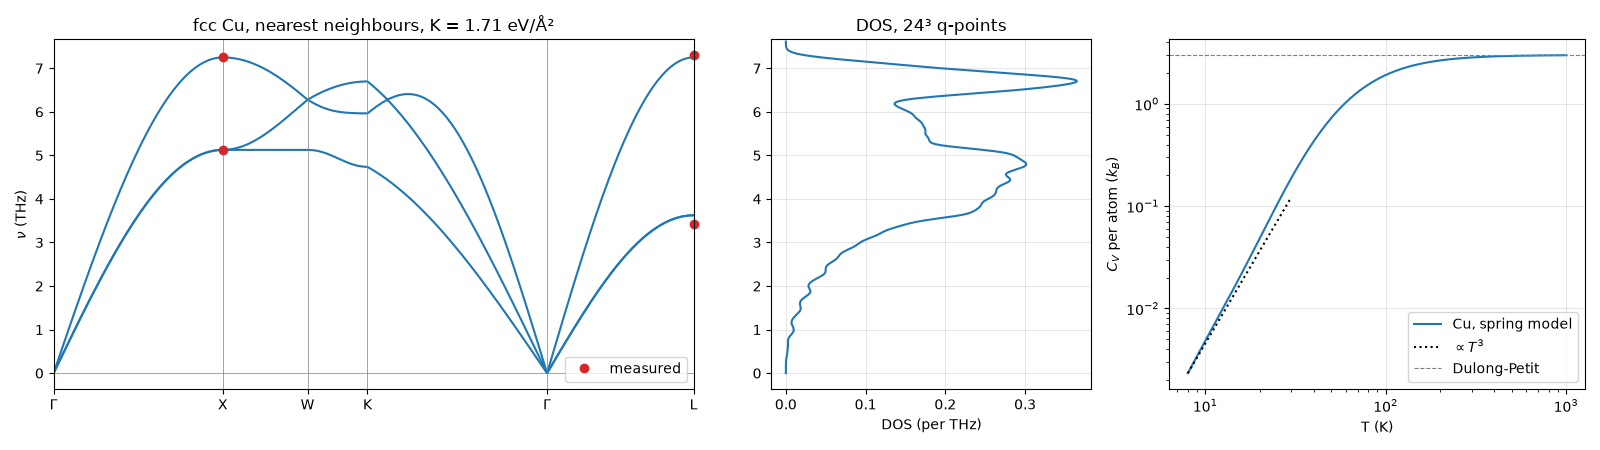
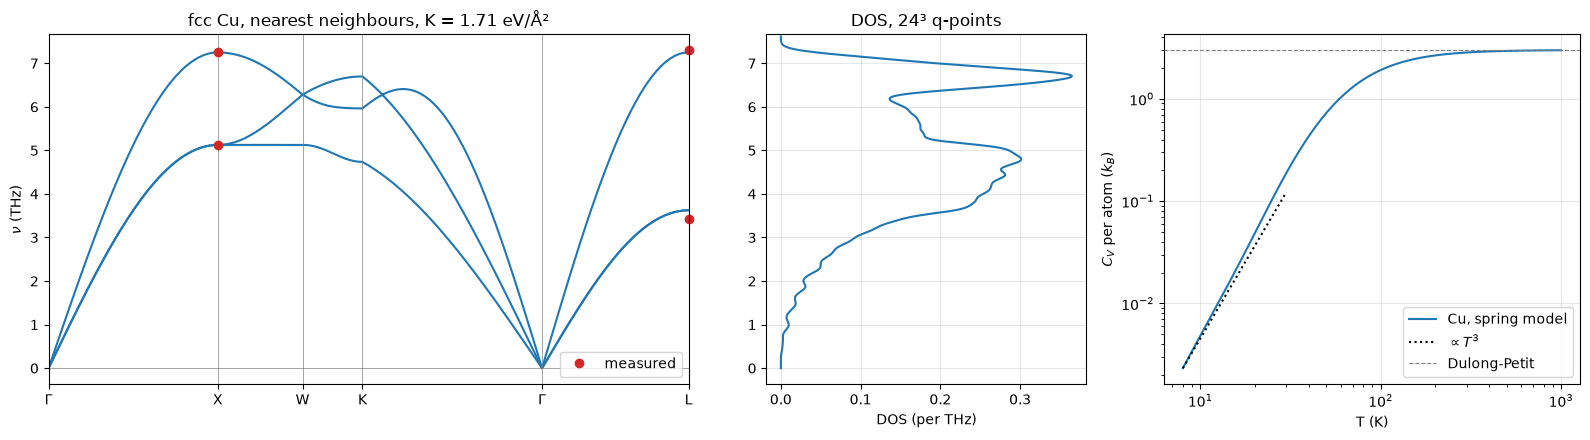
README images as sized HTML (equal heights per row), tightly cropped; test runs the code in README and guide

diff --git a/tests/test_docs.py b/tests/test_docs.py
@@ -1,0 +1,20 @@
+"""The Python code blocks in the README and the guide run (plots to the Agg backend)."""
+
+import re
+from pathlib import Path
+
+import matplotlib
+import matplotlib.pyplot as plt
+import pytest
+
+matplotlib.use("Agg")
+ROOT = Path(__file__).parent.parent
+DOCS = [ROOT / "README.md", *sorted((ROOT / "docs" / "guide").glob("*.md"))]
+
+
+@pytest.mark.parametrize("path", DOCS, ids=lambda path: path.name)
+def test_code_blocks_run(path, monkeypatch):
+    monkeypatch.setattr(plt, "show", lambda: None)
+    blocks = re.findall(r"```python\n(.*?)```", path.read_text(), re.S)
+    exec("\n".join(blocks), {})  # blocks of one page build on each other
+    plt.close("all")

diff --git a/docs/images/make_images.py b/docs/images/make_images.py
@@ -24,7 +24,7 @@ def main():
     plt.show = lambda: None
     for name, (example, figure) in IMAGES.items():
         runpy.run_path(str(ROOT / "examples" / example), run_name="__main__")
-        plt.figure(figure).savefig(Path(__file__).parent / name, dpi=100)
+        plt.figure(figure).savefig(Path(__file__).parent / name, dpi=100, bbox_inches="tight")
         plt.close("all")
 
 

diff --git a/README.md b/README.md
@@ -2,10 +2,12 @@
 
 latticephys computes and visualizes the vibrations of lattices (phonons) — molecules, chains, ribbons, layers and 3D crystals — with spring models checked against analytic results and experiment. The aim is a general library for the physics of lattices: phonons first, with more models, quasi-particles and dynamics to follow (see [`TODO.md`](TODO.md)).
 
-| | |
-|---|---|
-| ![NaCl crystal in 3D with its primitive cell](docs/images/nacl_crystal.png) | ![Graphene layer bands coloured by out-of-plane weight](docs/images/graphene_layer.png) |
-| ![Scattering intensity S(Q, ω) of graphene over three zones](docs/images/graphene_structure_factor.png) | ![Cu bands against neutron data, DOS and heat capacity](docs/images/copper.png) |
+<p align="center">
+  <img src="docs/images/nacl_crystal.png" width="40%" alt="NaCl crystal in 3D with its primitive cell">
+  <img src="docs/images/graphene_layer.png" width="57%" alt="Graphene layer bands coloured by out-of-plane weight">
+  <img src="docs/images/graphene_structure_factor.png" width="35%" alt="Scattering intensity S(Q, ω) of graphene over three zones">
+  <img src="docs/images/copper.png" width="62%" alt="Cu bands against neutron data, DOS and heat capacity">
+</p>
 
 ## Install
 

diff --git a/TODO.md b/TODO.md
@@ -7,7 +7,6 @@ Planned examples are in [`examples/IDEAS.md`](examples/IDEAS.md); the items belo
 ## Next
 
 - [ ] verify that rule 6 in CLAUDE.md is realistic physically (some things can't be computed analytically)
-- [ ] re-evaluate the README.md to properly reflect the library to make it users able to use the library efficiently. Emphasize is less on the examples than on the power of the lib
 - [ ] check if the library captures all physical concepts described in chapters 1-4 of the book '2016 TheoretischeFestkörperphysik - Czycholl.pdf' in references/ (as far as possible).
 - [ ] include electron physics
 - [ ] include magnon physics
